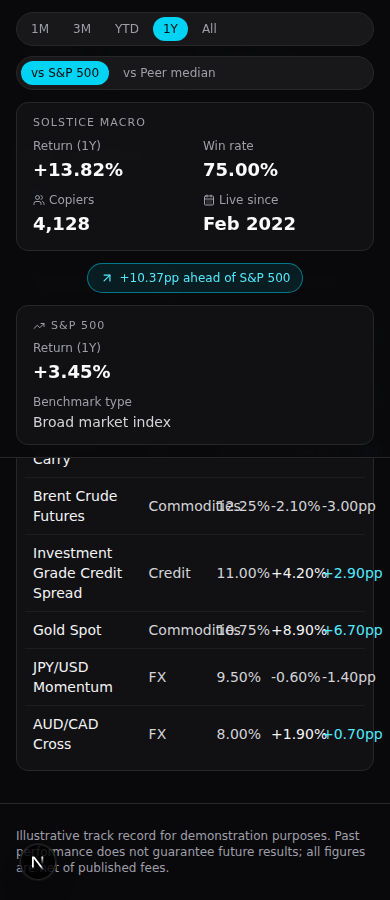
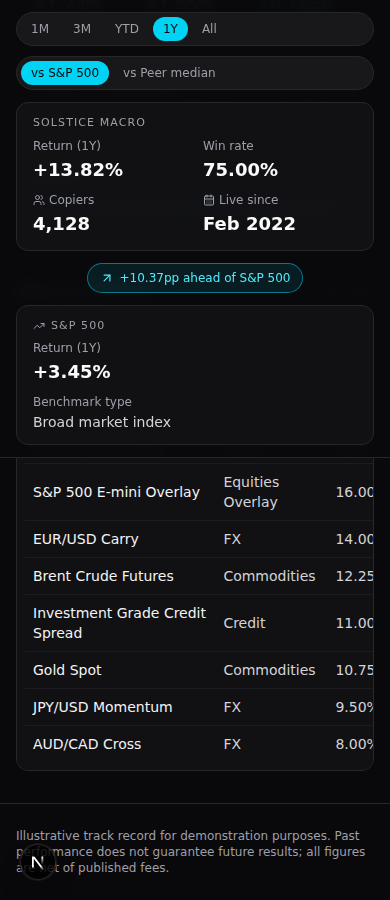
feat(dash-evolve): profile r2 b — Solstice Macro dual-toggle scoreboard | 2:1
Winner b (Renata Kessler / Solstice Macro trading-benchmark profile): a sticky
scoreboard band's shared range+baseline toggles recompute a stat pair, a
monthly divergence chart, and a positions table's delta column from one data
source. Lens2 (commercial polish) and lens3 (archetype distinctness) both
picked b; lens1 (compliance) picked a and flagged a real mobile-width defect
in b's positions table (390px sr-only containing-block leak past its
overflow-x-auto clipper — page-brief-core's documented pattern, not caught by
the automated sweep since it doesn't produce scrollWidth overflow until the
table is widened). Fixed under the skill's §3-1 conditional post-decision-fix
rule (rule-violation-only, re-gated, ranking not recomputed) and documented
in DECISION.md.

- auto-profile-r2 candidates a/b/c generated, gated, judged (3 lenses, blind)
- profile-deltas-provisional.jsonl: r1's always-visible-stat-cluster delta
  reproduced 2 rounds running -> superseded to L2; new L1 delta on the
  shared-control-recomputes-heterogeneous-outputs pattern from this round
- questions-queue.md Q15 (profile transplant-vs-original): round 2
  observation appended, not yet resolved (proposing a 3rd round before
  deciding)
- auto-ledger.jsonl + vault/index.md updated

Changed region(s): [[0.0615, 0.4978, 0.9846, 0.84]]

diff --git a/app/src/app/profile-evolve/r2/b/positions-table.tsx b/app/src/app/profile-evolve/r2/b/positions-table.tsx
@@ -109,8 +109,8 @@ export default function PositionsTable({ baseline }: { baseline: BaselineKey }) 
         })}
       </div>
 
-      <div className="mt-3 rounded-xl border border-zinc-800 bg-zinc-900/60 p-2 sm:p-3">
-        <table className="w-full table-fixed border-collapse text-sm">
+      <div className="relative mt-3 overflow-x-auto rounded-xl border border-zinc-800 bg-zinc-900/60 p-2 sm:p-3">
+        <table className="w-full min-w-[560px] table-fixed border-collapse text-sm">
           <caption className="sr-only">
             Open positions for Solstice Macro, sortable by allocation, return, and delta versus {baselineMeta.short}.
           </caption>

diff --git a/vault/20-generations/2026-08-05-auto-profile-r2/DECISION.md b/vault/20-generations/2026-08-05-auto-profile-r2/DECISION.md
@@ -1,0 +1,49 @@
+# DECISION — auto-profile-r2
+
+타깃: `profile` (신규 · 프로파일 부재 2라운드째 — [[page-brief-core]] §"타입 프로파일 목록" 규정대로 코어만으로 생성. `profile-deltas-provisional.jsonl`의 r1 델타(핵심 신뢰 통계 상시노출)를 GENERATE 사전 지침으로 명시 전달했다.)
+
+큐 선정: `app/src/lib/works.ts`의 `PAGE_TYPES` 미채움 조회 결과 `profile,blog,about,careers,contact,developers,integration,media-kit`가 미충족 상태였고(승격은 `/dash-falsify apply`에서 일어나므로 `auto-profile-r1`이 있어도 works.ts엔 아직 `category:"profile"`이 없다), 배열 순서상 첫 항목인 `profile`을 뽑았다.
+
+다양성 축 사전 배정: `node scripts/catalog-variety.mjs` + 최근 5라운드(product-detail-r2·paywall-r2·native-r1·profile-r1·blog-r1)의 `variety` 필드로 계산한 banList가 **빈 상태**(theme/accent/face 전부 강제 회피 없음)였다. 그럼에도 카탈로그 전체가 `pretendard`-전용(21/24)·`violet-hex`/`indigo` 액센트(7·5회)에 쏠려 있어, 3후보에 서로 다른 축을 사전 배정했다: a=light/emerald/grotesk · b=dark/cyan/wide · c=light/blue/mono(카탈로그 최초 사용).
+
+## 후보
+- **a — "Imogen Castellane / Keel & Ballast Audits"**: 독립 프로토콜 보안감사관 프로필. sticky 상단 identity bar(rating·audits·fixes·since 4-stat `dl`, 전 스크롤 깊이 상시노출)에 항상 노출되는 프로토콜별 커리어 총계 시맨틱 테이블이 이어지고, 메인은 심각도 칩×프로토콜 select×정렬로 필터링되는 연대순 케이스 로그(각 항목이 아코디언으로 확장돼 실제 findings 테이블을 노출)다. r1의 탭형 스토어프론트·사이드바+히트맵·히어로+피드+가격 3종과 다른 "로그 스파인" 구조.
+- **b — "Renata Kessler / Solstice Macro" (Meridian 플랫폼)**: 트레이딩 전략 벤치마크 프로필. sticky 스코어보드 밴드(핵심 `dl` + 기간 토글 + 베이스라인 토글)가 페이지의 구조적 척추로, 두 토글이 통계쌍·월별 다이버전스 바 차트·포지션 테이블의 델타 열을 동시에 재계산한다. r1 3종과도, 이번 라운드 a/c와도 겹치지 않는 "공유 이중 토글이 이질적 산출물 다수를 재계산" 조합.
+- **c — "Reeve Calloway / Fieldwork"**: 프리랜스 프로덕트·그로스 디자이너 포트폴리오. sticky identity bar 아래 discipline 다중선택 칩 + engagement-type 세그먼트 + 정렬이 3열 케이스스터디 카드 그리드를 구동하고, 각 카드가 확장돼 before/after 메트릭 테이블과 후기를 노출한다.
+
+## 하드게이트
+게이트 실행: `CHROME_PATH=/opt/pw-browsers/chromium PW_CHROMIUM_PATH=/opt/pw-browsers/chromium PW_NO_SANDBOX=1 node scripts/gate.mjs --target web --routes /profile-evolve/r2/<v>` (playwright.dev 다운로드가 프록시에서 차단돼 세션 로컬 크로미움 사전설치본 사용, gate.mjs 자체는 무수정). 전 후보 1차부터 전 항목 통과(static 위반 0 · weights 3종 · sweep 오버플로 0 · a11y a=100/b=96/c=100 · perf 기록만). 1-fix 루프 불요. 상세: SCORES.md.
+
+스크린샷: 후보별 16장(4폭×4스크롤 지점), blank 판정 전원 통과(48/48 — b는 정제 조치 후 재촬영, 아래 참조).
+
+## JUDGE 패널 (3렌즈, 블라인드 — 컨셉 문서 비공개, 스크린샷+소스만 전달)
+
+### 렌즈1 — page-brief-core 준수 + 견고성
+1위 a · 2위 c · 3위 b. 3후보 전원이 상시노출 델타(rating/stat `dl`이 전 스크롤·전 상태에서 sticky 유지)를 지켰고 `dl` 중첩 규칙(아이콘이 `dt` 내부)도 전원 정확했다. a는 32프레임(1280·390 × 4스크롤) 전수 검사에서 결함 없음 — 커리어 총계 테이블이 필터와 무관하게 불변인 "증명 상시노출" 설계, `motion-reduce:transition-none` 준수까지 확인. c는 근소한 2위 — `IdentityBar`의 제목 줄이 `truncate`로 뱃지를 삼켜(390px에서 "Available for new engagements" 배지가 안 보임) 핵심 `dl`과 무관한 완성도 결함 1건. **b — 실질 결함**: `PositionsTable`이 `overflow-x-auto` 래퍼 없이 `table-fixed`만 써서 390px에서 열이 붕괴(정렬 아이콘과 "Return" 텍스트 겹침, 값 문자열 서로 붙어 읽기 불가) — `document.scrollWidth`를 오염시키지 않아 자동 sweep은 통과했지만 page-brief-core §5(로컬 가로 스크롤은 모바일 전용, 16px 미만 여유폭은 실패) 정면 위반. 하드게이트가 못 잡는 폭 결함 클래스로 3위 사유.
+
+### 렌즈2 — 상용 완성도
+1위 b · 2위 a · 3위 c. b: 스코어보드 밴드의 두 토글이 통계쌍·바 차트·포지션 테이블 델타 열을 동일 소스(`data.ts`)에서 실시간 재계산 — 트레이딩 벤치마크 대시보드 레퍼런스급 정보 밀도와 상태 일관성, 카피-DOM 불일치 없음. a: 완전히 일관되나 차트/생성형 자산이 전무해(정적 모노그램뿐) 3후보 중 시각적으로 가장 얇음 — "감사 보고서"에 가깝고 벤치마크 프로필만큼 상용적이지 않음. c: 케이스카드 커버 아트가 카테고리별로 결정론적이나 실제 데이터를 인코딩하지 않는 장식적 아이콘(b의 차트는 실제 수익률 크기를 인코딩)이라 상대적으로 낮은 3위, 단 카피-DOM 불일치는 없음(footer가 "58 engagements"와 "8 case studies representative" 두 숫자를 정확히 구분).
+
+### 렌즈3 — 아키타입 차별성
+1위 b · 2위 a · 3위 c. b: 공유 이중 토글이 이질적 출력 3개(통계쌍/차트/테이블)를 동시 재계산하는 입력×출력 조합은 이번 라운드도 r1 3종에도 없는 신규 조합 — Q15(신규 타입의 타 타입 골격 이식) 관점에서 **profile-native/독자적**으로 판정(고신뢰). a: 필터칩+select+정렬→재정렬 메커니즘 자체는 c와 공유되고 catalog 타입의 핵심 이식이지만, 최종 조합(sticky 바+불변 집계 테이블+비경쟁 정적 사이드+리스트형 출력)이 c와는 구분되는 재조합 — **부분 이식**(중간 신뢰). c: sticky 통계바(r1/a 계열)+about/태그 카드(r1/b 사이드바 콘텐츠와 거의 동일)+필터→그리드(catalog 메커니즘의 가장 문자적 재현)로 3후보 중 신규 구조 어휘 기여가 가장 적다 — **확신 이식**(고신뢰).
+
+## 집계
+1위 표: b 2표(렌즈2·렌즈3) · a 1표(렌즈1) → **다수결 성립**. [[curation-criteria]] "차별성 ↔ 완성도 상충 시 판정 방향"과는 다른 패턴이다 — 이번엔 완성도(렌즈2)와 차별성(렌즈3)이 **같은 후보(b)**로 수렴했고, 렌즈1만 반대(b의 실결함 근거)였다. tie-break 불요.
+
+## 승자 — b (Renata Kessler / Solstice Macro)
+
+## 정제 조치 (§3-1 — 판정 후 산출물 수정, 규칙 위반 해소에 한정)
+렌즈1이 지적한 b의 `PositionsTable` 390px 폭 결함(page-brief-core §5 위반, 자동 sweep 미검출)을 승자 확정 후 수정했다. 원인은 [[page-brief-core]] §3에 이미 문서화된 "sr-only 앵커" 버그의 실측 재현이었다: `<caption className="sr-only">`와 델타 열 헤더의 `<span className="sr-only">`가 `position:absolute`인데 그 사이 조상 어디에도 `position:relative`가 없어, `overflow-x-auto` 클리핑 컨테이너를 건너뛰고 상위(문서) 좌표계에 페인트됐다 — 테이블에 `min-w-[560px]`를 주기 전에는 정적 위치가 뷰포트 안에 머물러 드러나지 않다가, 폭 결함 자체를 고치려 `overflow-x-auto` + `min-w-[560px]`를 추가한 순간(테이블의 in-flow 정적 위치가 560px 폭 기준으로 재계산되며) 처음으로 `document.scrollWidth`를 오염시켰다(390 → 509, 오버플로 119px, 자체 재현·계측 완료).
+- **조치**: `positions-table.tsx`의 `overflow-x-auto` 래퍼 div에 `relative`를 추가해 두 `sr-only` 요소의 containing block을 클리핑 컨테이너 내부로 되돌렸다(테이블 자체는 `min-w-[560px]` + `overflow-x-auto`로 로컬 가로 스크롤 유지 — a/c와 동일 패턴).
+- **재검증**: `cd app && npx tsc --noEmit`·`npx eslint src/app/profile-evolve/r2/b` 클린 재확인 → `node scripts/gate.mjs --target web --routes /profile-evolve/r2/b` 재실행 전 항목 통과(static 0 · weights 3종 · sweep 오버플로 0 · a11y 96 · perf 62) → 스크린샷 16장 재촬영, blank 0/16.
+- **순위 재계산**: 하지 않음 — 이 수정은 렌즈1이 이미 근거로 인용한 결함의 **해소**이지 완성도 개선이 아니다(렌즈2·렌즈3의 1위 사유는 이 폭 결함과 무관했다). 렌즈1의 3위 판정 자체는 판정 시점 기록으로 그대로 둔다.
+- **소스 재동결 해시**(조치 후, 전 후보): `c93d6cb43fd06f86a16cf9f15216a3d5f5af9df5` (SCORES.md 참조 — judge 패널이 본 원 동결 해시 `ecd0a7...` 와 구분해 기록).
+
+## 기권
+없음 — 3렌즈 전원 정상 응답.
+
+## 참고 — Q15 관측 기록 (질문 큐 갱신용, 아래 §정제 게이트에서 반영)
+이번 라운드는 Q15("신규 타입이 기존 타입 골격을 부분 이식하는 것을 아키타입 렌즈가 감점해야 하는가")의 2번째 관측 라운드다. 렌즈3의 개별 판정: b=독자적(고신뢰) · a=부분 이식(중신뢰) · c=확신 이식(고신뢰). r1에서는 3후보 **전원**이 이식이었고 그럼에도 이식도가 가장 낮았던 b(사이드바+히트맵, 대시보드 위젯 재스킨으로 판정됨)가 승자였다. 이번 r2에서는 **독자적 구조(b)가 1위 표까지 가져갔다** — 이식 여부가 승패를 가르는 결정 변수는 아니었지만(렌즈1은 b를 3위로 뒀다), 렌즈3의 1위가 2라운드 연속 "이식도가 낮은 후보"에게 갔다는 점은 관측할 가치가 있다.
+
+## 참고 — 비승자 결함 기록 (다음 라운드 방지용, 델타 미승격)
+- c의 `IdentityBar` 제목 줄이 `truncate`로 가용성 배지를 삼키는 패턴(390px에서만 발현, 핵심 `dl`과는 무관)은 이번 라운드 델타로 올리지 않았으나, 2회+ 재현 시 delta 편입 검토 대상.

diff --git a/vault/00-principles/questions-queue.md b/vault/00-principles/questions-queue.md
@@ -95,6 +95,8 @@ tags: [ledger, questions]
 
 **잠정 가설**: `profile`처럼 여러 콘텐츠 축(평판+목록+비교+가격)이 자연스럽게 합성되는 타입은 완전히 새로운 매크로-골격보다 기존 타입의 검증된 서브패턴을 조합하는 편이 오히려 사용자에게 익숙하고 완성도가 높을 수 있다 — 이 경우 "이식"을 감점 사유로 보는 것 자체가 틀린 기준일 수 있다. 반대로, 이식이 반복되면 `profile` 타입이 독자적 아키타입 어휘를 영영 축적하지 못하고 항상 "다른 타입의 조합"으로만 판정받는 구조가 고착될 위험도 있다. 다음 profile 라운드(들)에서 재현 패턴을 관측한 뒤 판단이 필요하다 — 판정 방향 후보: ① 이식 자체는 중립(브리프가 없는 신규 타입의 자연스러운 시작점), 최초 순수 신규 서브패턴만 렌즈3 가산 대상 / ② 이식은 여전히 감점하되 "동일 라운드 내 2개 이상 후보가 같은 타입에서 이식"할 때만 감점(우연한 수렴 방지 취지와 동일선상).
 
+**관측 갱신 (`auto-profile-r2`, 2026-08-05)**: 렌즈3이 이번에도 후보별 이식도를 개별 판정했다 — b=독자적(고신뢰, 공유 이중 토글이 이질적 산출물 3개를 동시 재계산하는 조합은 repick-design 어디에도 없음) · a=부분 이식(중신뢰, 필터×정렬→재정렬 메커니즘은 catalog 계열이나 최종 조합은 재구성) · c=확신 이식(고신뢰, catalog의 필터→그리드 + r1/b 사이드바 콘텐츠의 조합). r1과 달리 이번엔 **3후보가 이식도에서 갈렸고**, 렌즈3 1위(b)가 곧 가장 독자적인 후보였다 — r1(3후보 전원 이식, 이식도 최저였던 b가 렌즈1·렌즈2로 승자)에 이어 **2라운드 연속으로 "이식도가 낮은 후보가 렌즈3 1위 또는 최종 승자"** 패턴이 재현됐다. 이번 라운드는 한 걸음 더 나아가 렌즈2(상용 완성도)도 독자적 후보(b)를 1위로 매겨, **완성도와 독자성이 상충하지 않고 같은 후보로 수렴**한 첫 사례다(r1은 완성도 렌즈들이 이식 후보(b)를 승자로 만든 것과 달리, r2는 완성도 렌즈가 독자적 후보를 승자로 만들었다). 판정 방향 후보 ①(이식은 중립, 신규 서브패턴만 가산)이 2라운드 데이터와 더 정합적으로 보이나, 표본이 아직 2라운드뿐이라 **3번째 profile 라운드에서 한 번 더 관측한 뒤 최종 판단**을 제안한다 — 이번 라운드도 아직 확정 짓지 않는다.
+
 ### Q16 — 순위에 안 잡히는 "공통 결함"에 루프로 들어올 경로를 줘야 하는가 (target: blog·공통)
 
 **배경**: `auto-blog-r1`에서 세 후보 **전원**이 주 내비를 모바일에서 숨기면서 대체 토글을 두지 않았다. 렌즈1이 이를 발견하고도 **"3후보 공통(비차별)이라 순위엔 영향 없으나 기록"**으로 처리했고, 그대로 DECISION에 묻혔다.

diff --git a/vault/index.md b/vault/index.md
@@ -73,3 +73,4 @@ _(main 기준 없음 — 라운드 커밋이 DECISION 등재를 추가한다)_
 - [[20-generations/2026-08-04-auto-native-r1/DECISION|2026-08-04-auto-native-r1]]
 - [[20-generations/2026-08-04-auto-profile-r1/DECISION|auto-profile-r1]] (profile 타입 첫 라운드 — 프로파일 부재로 page-brief-core만으로 생성 — 승자 b — Sable Voss / Loopwire 개발자·연동 퍼블리셔 프로필(기여 히트맵+연동 그리드), 렌즈1·렌즈2 2표 vs 렌즈3 1표 — 렌즈3은 3후보 모두가 기존 타입(catalog/dashboard/paywall)의 매크로 패턴을 부분 이식했다고 지적, Q15로 질문 큐 등재)
 - [[20-generations/2026-08-04-auto-blog-r1/DECISION|auto-blog-r1]] (blog 타입 첫 라운드 — 프로파일 부재로 page-brief-core만으로 생성 — 승자 a — Northbeam 히어로+필터형 카드 그리드 블로그 인덱스, 렌즈1·렌즈2 2표 vs 렌즈3 1표 — c는 picsum 원격 이미지 로드 실패로 alt 텍스트가 고정 컨테이너 밖으로 번지는 실결함, a·b는 결정론적 생성 SVG 아트로 이 실패 모드를 원천 회피 — 이 회피 패턴이 신규 델타로 기록)
+- [[20-generations/2026-08-05-auto-profile-r2/DECISION|auto-profile-r2]] (profile 2라운드째 — 승자 b — Renata Kessler / Solstice Macro 트레이딩 벤치마크 프로필(sticky 스코어보드 밴드의 이중 토글이 통계쌍·차트·테이블을 동시 재계산), 렌즈2·렌즈3 2표 vs 렌즈1 1표 — 렌즈1이 지적한 b의 390px 테이블 폭 결함(page-brief-core §3 sr-only containing-block 버그의 실측 재현, 자동 sweep 미검출)을 §3-1 정제 조치로 수정 후 재게이트·재통과 — "핵심 통계 상시노출" 델타 2라운드 재현으로 L2 승격, Q15에 2라운드째 관측 갱신(이식도 낮은 후보가 2연속 렌즈3 1위/최종승자))

diff --git a/vault/20-generations/2026-08-05-auto-profile-r2/SCORES.md b/vault/20-generations/2026-08-05-auto-profile-r2/SCORES.md
@@ -2,7 +2,9 @@
 
 게이트: `CHROME_PATH=/opt/pw-browsers/chromium PW_CHROMIUM_PATH=/opt/pw-browsers/chromium PW_NO_SANDBOX=1 node scripts/gate.mjs --target web --routes /profile-evolve/r2/<v>` (세션 로컬 크로미움 심링크 경로 — playwright.dev 다운로드가 프록시에서 차단돼 `/opt/pw-browsers/chromium` 사전설치본을 사용, gate.mjs 자체는 무수정)
 
-후보 소스 동결 해시(전 후보 최종 통과 시점): `ecd0a7708c9f111a2ed7552dea4147bd26d2739f`
+후보 소스 동결 해시(전 후보 최종 통과 시점, judge 패널 입력): `ecd0a7708c9f111a2ed7552dea4147bd26d2739f`
+
+**정제 조치 후 재동결 해시**(b — §3-1 규칙 위반 해소, 순위 재계산 없음. 상세는 DECISION.md "정제 조치" 절): `c93d6cb43fd06f86a16cf9f15216a3d5f5af9df5`
 
 | 후보 | static | weights | sweep | a11y | perf | 1-fix |
 |---|---|---|---|---|---|---|
